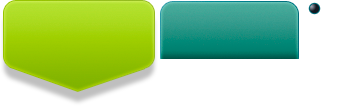
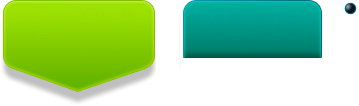
makeup home page

diff --git a/app/assets/stylesheets/pages.css.scss b/app/assets/stylesheets/pages.css.scss
@@ -13,12 +13,27 @@
       text-decoration: none;
       display: block;
       float: left;
-      background: url("/assets/auth-btn-set.png");
+      background: url("/assets/auth-btn-set.png") -174px 1px;
       font-weight: bold;
       font-size: 24px;
       text-align: center;
+      padding-top: 8px;
+      height: 53px;
+      width: 158px;        
+      color: #fff;     
+      -webkit-text-shadow: 1px 1px 0 #677e0b;
+      -moz-text-shadow: 1px 1px 0 #677e0b;
+      text-shadow: 1px 1px 0 #677e0b;
+      span {
+        -webkit-text-shadow: 1px 1px 0 #1b1e26;
+        -moz-text-shadow: 1px 1px 0 #1b1e26;
+        text-shadow: 1px 1px 0 #1b1e26;
+        font-size: 12px;
+        display: block;
+        color: #f2efbd;
+      }
       
-      &.sign-up{
+      &.selected {
         padding-top: 16px;
         height: 89px;
         width: 158px;
@@ -26,34 +41,12 @@
         -webkit-text-shadow: 1px 1px 0 #e0ff69;
         -moz-text-shadow: 1px 1px 0 #e0ff69;
         text-shadow: 1px 1px 0 #e0ff69;
+        background-position: 0 0;
         span{
           text-shadow: 1px 1px 0 #677e0b;
           -moz-text-shadow: 1px 1px 0 #677e0b;
           -webkit-text-shadow: 1px 1px 0 #677e0b;
         }
-      }
-      
-      &.sign-in{
-        background-position: -159px 0;
-        padding-top: 8px;
-        height: 53px;
-        width: 141px;
-        color: #fff;
-        margin-left: 12px;
-        -webkit-text-shadow: 1px 1px 0 #677e0b;
-        -moz-text-shadow: 1px 1px 0 #677e0b;
-        text-shadow: 1px 1px 0 #677e0b;
-        span {
-          -webkit-text-shadow: 1px 1px 0 #1b1e26;
-          -moz-text-shadow: 1px 1px 0 #1b1e26;
-          text-shadow: 1px 1px 0 #1b1e26;
-        }
-      }
-      
-      span {
-        font-size: 12px;
-        display: block;
-        color: #f2efbd;
       }
     }
   }
@@ -86,12 +79,18 @@
       }
     }
     
-    #sign-up {
+    .sign-tab {
       width: 230px;
       float: right;
       margin: 60px 103px 0 0;
-      .inputs {
-        height: 260px;
+      &#sign-up .inputs {
+        height: 256px;
+        padding-top: 1px;
+      }
+      
+      &#sign-in .inputs {
+        height: 207px;
+        padding-top: 50px;
       }
       .toggler {
         padding: 5px 0px 10px;
@@ -104,10 +103,10 @@
           font-size: 14px;
           margin-left: 5px;
           padding: 2px 0 2px 25px;
-          background: url("/assets/auth-btn-set.png") no-repeat scroll -303px -22px transparent;
+          background: url("/assets/auth-btn-set.png") no-repeat scroll -339px -22px transparent;
           color: #ffffff;
           &.checked{
-            background-position: -303px 1px;
+            background-position: -339px 1px;
           }
         }
         b {
@@ -119,6 +118,8 @@
         margin: 5px 0px;
       }
     }
+    
+    
     .submit-btn {
       background: #d0e95b; /* Old browsers */
       /* IE9 SVG, needs conditional override of 'filter' to 'none' */

diff --git a/config/initializers/devise.rb b/config/initializers/devise.rb
@@ -182,7 +182,7 @@ Devise.setup do |config|
   # Turn scoped views on. Before rendering "sessions/new", it will first check for
   # "users/sessions/new". It's turned off by default because it's slower if you
   # are using only default views.
-  # config.scoped_views = false
+  config.scoped_views = true
 
   # Configure the default scope given to Warden. By default it's the first
   # devise role declared in your routes (usually :user).

diff --git a/config/routes.rb b/config/routes.rb
@@ -5,7 +5,6 @@ Orthodontic::Application.routes.draw do
   devise_for :users
   
   
-  match "/home" => "pages#home"
   match "/sign_in" => "pages#sign_in"
   match "/item" => "pages#item"
   match "/interesting_item" => "pages#interesting_item"
